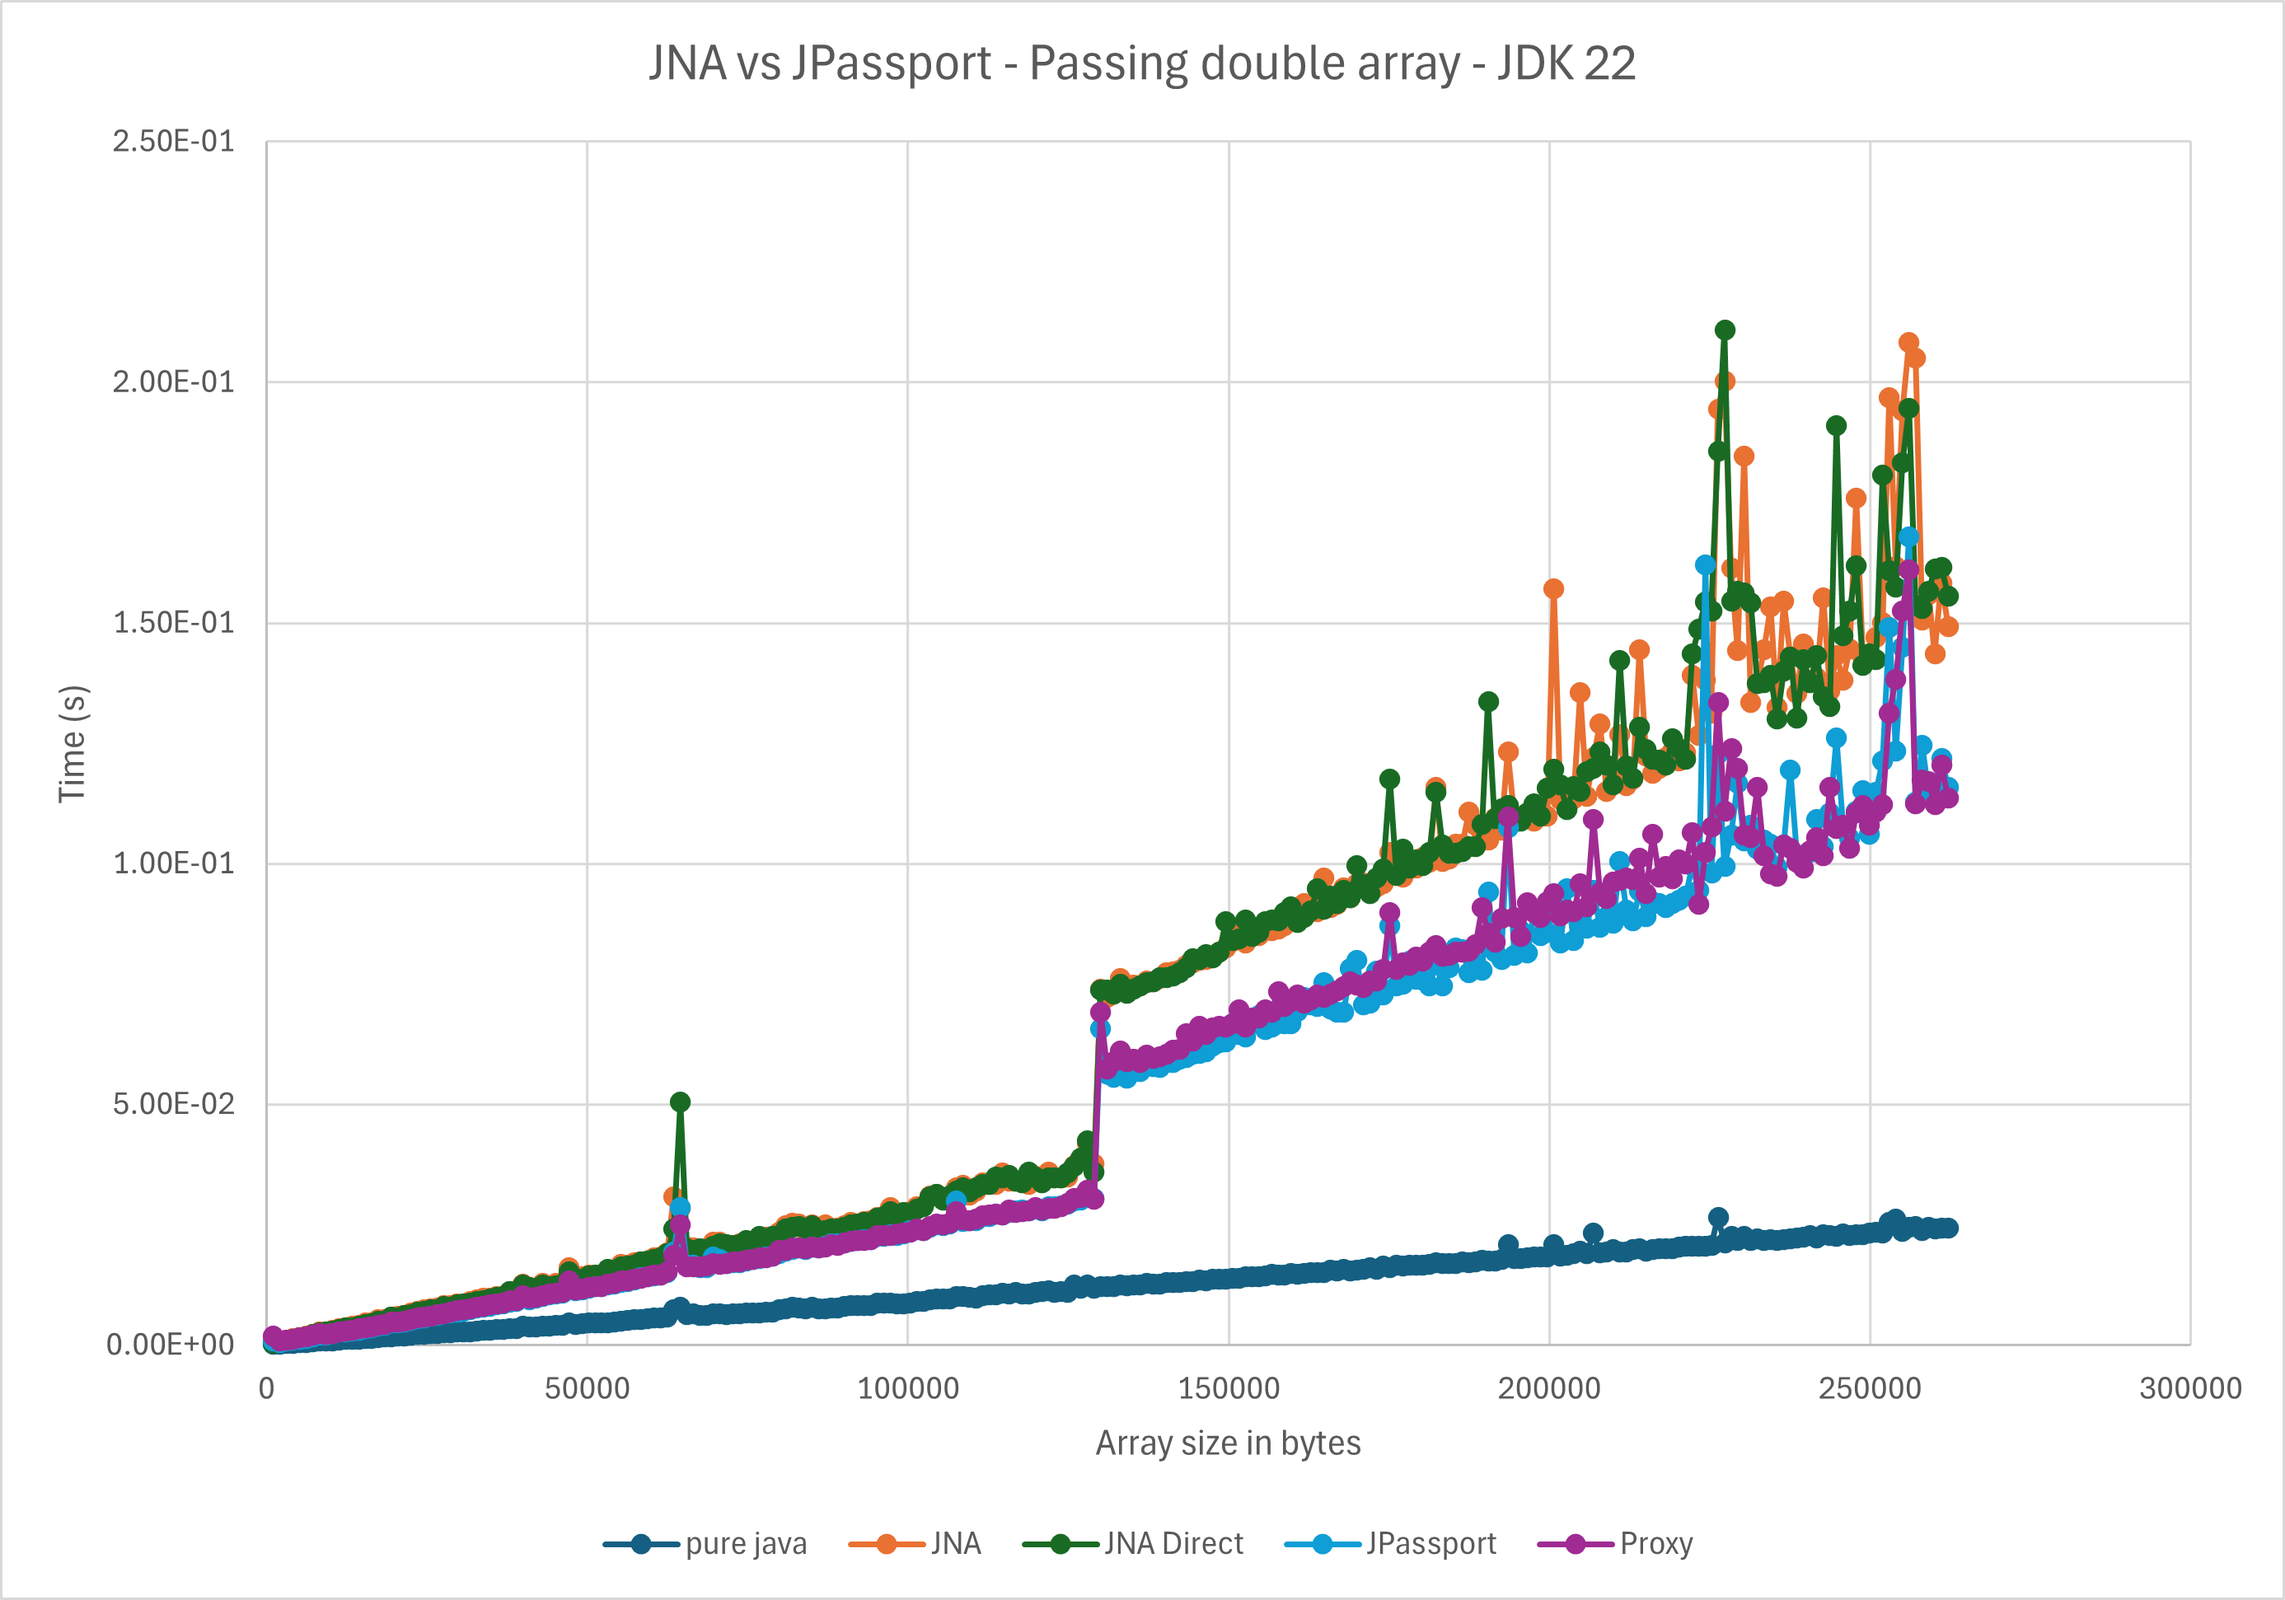
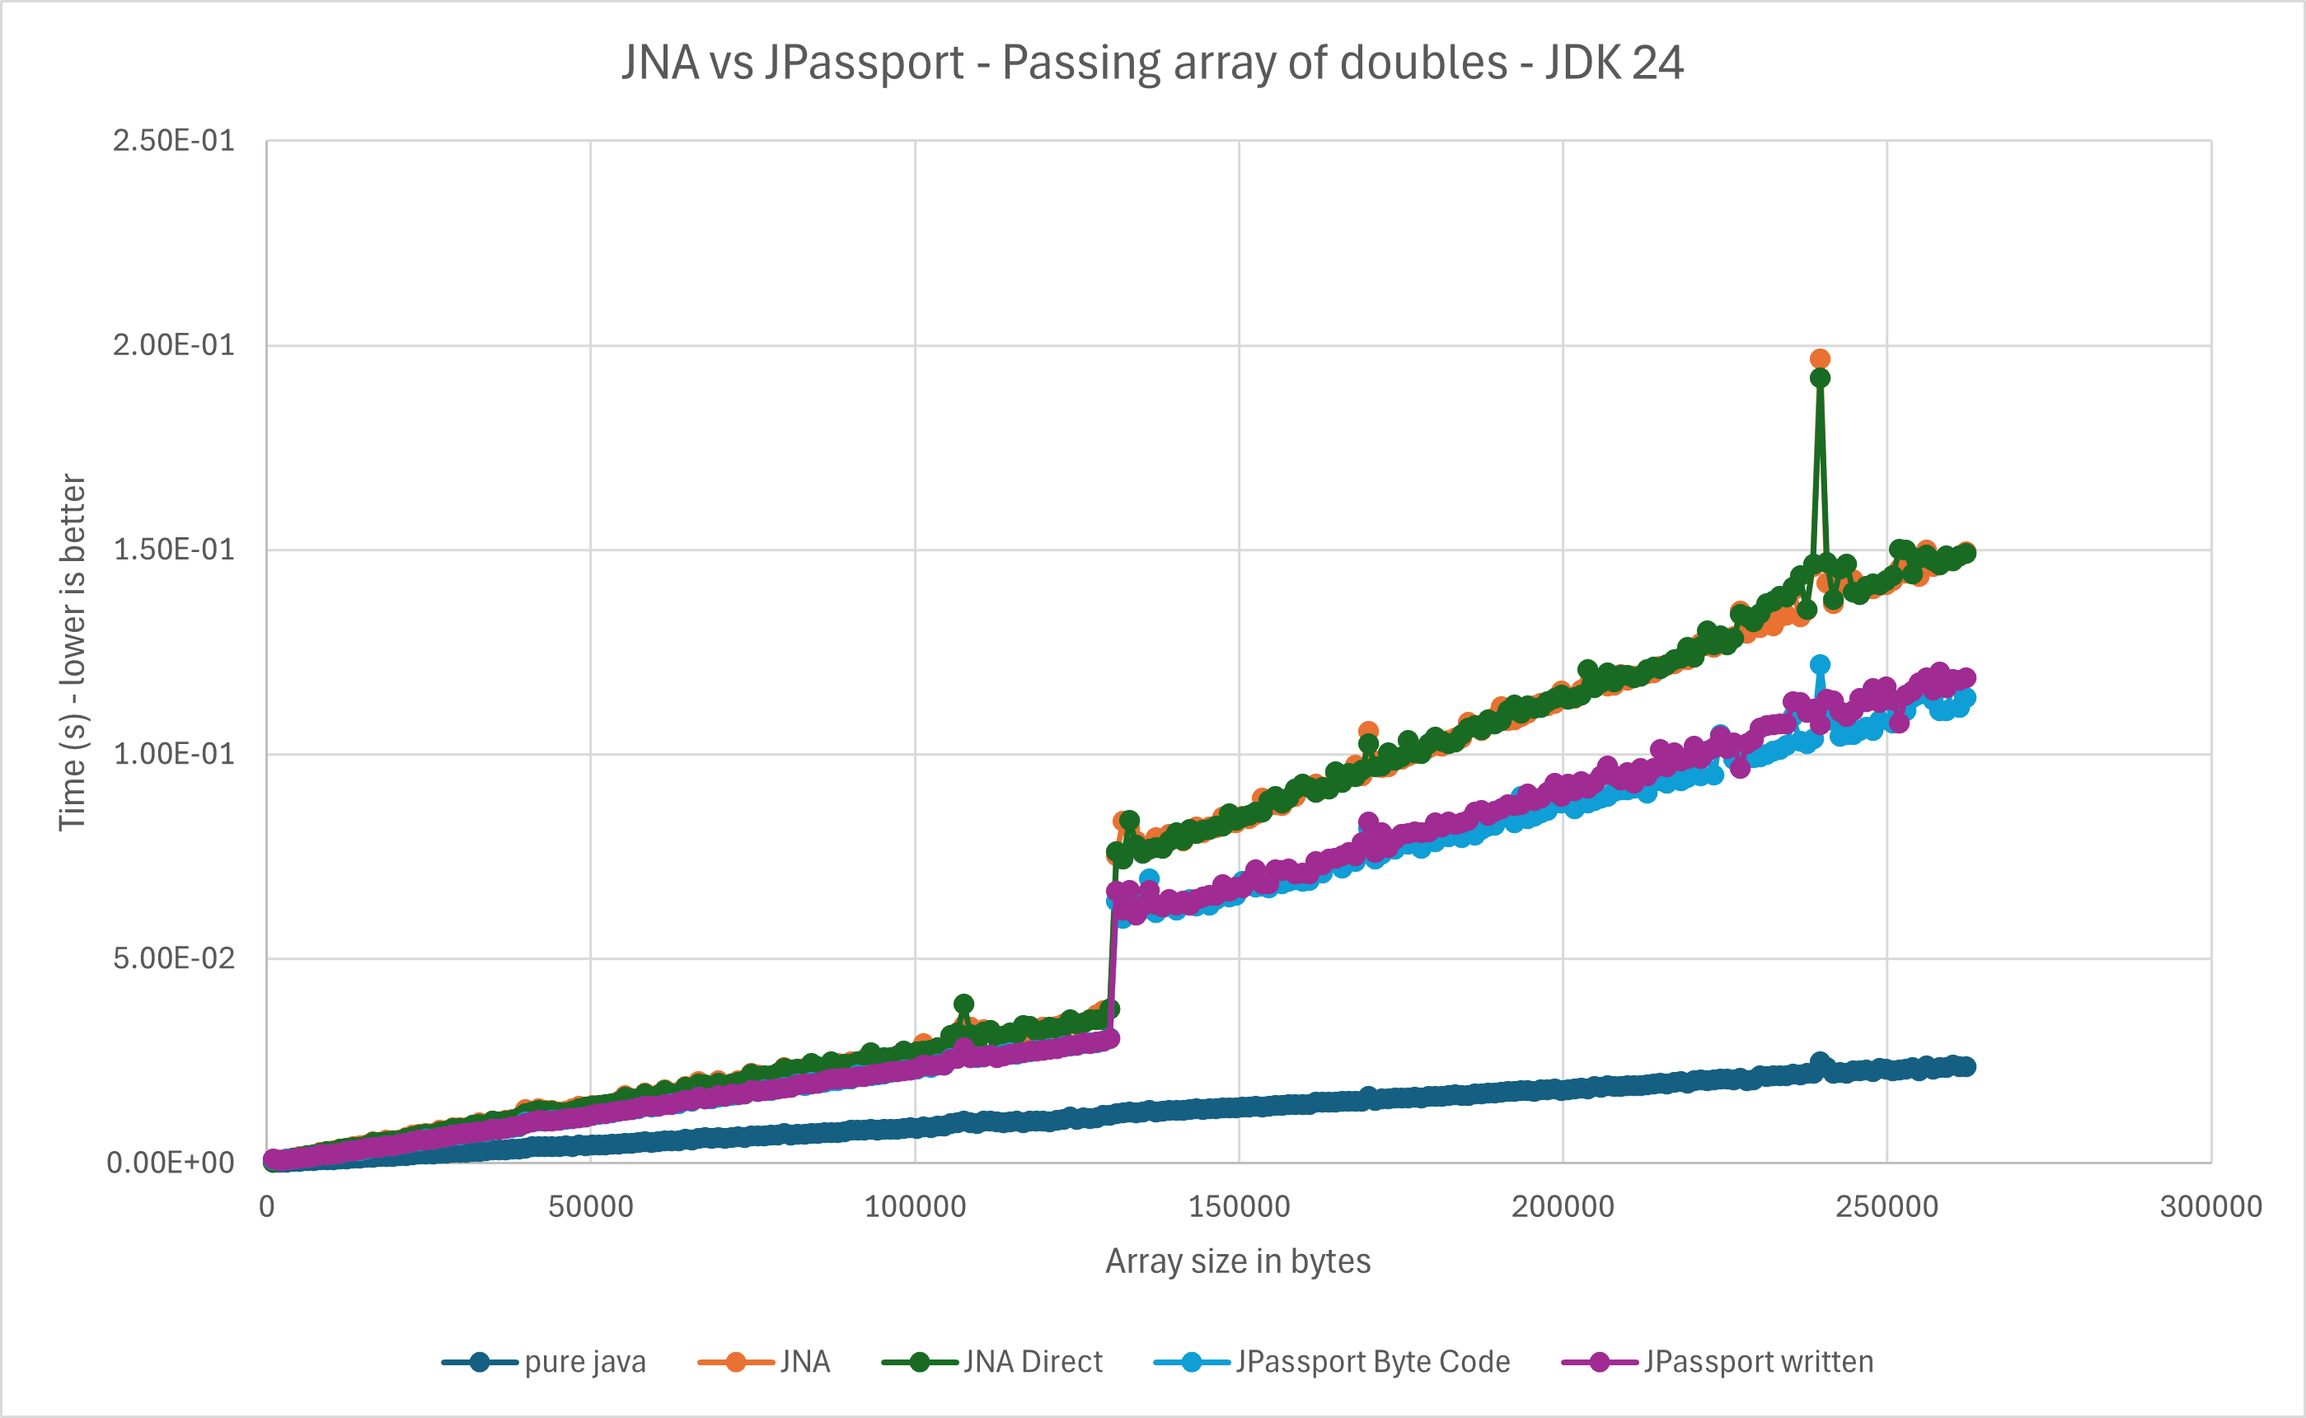
Publishing 1.2.0-24

diff --git a/README.md b/README.md
@@ -33,7 +33,7 @@ Download the source and run the maven build, or use the maven dependency:
         <dependency>
             <groupId>io.github.boulder-on</groupId>
             <artifactId>JPassport</artifactId>
-            <version>1.1.0-24</version>
+            <version>1.2.0-24</version>
         </dependency>
 
 If you would like to see the Java code or byte code created use:
@@ -426,7 +426,7 @@ JPassport itself only requires **Java 24 or later** to build and run. There are 
 
 
 # Release Notes
-- 1.2.0-24 (not released yet)
+- 1.2.0-24
   - Moved all record/struct reading and writing to the Classfile API instead of reflection (for speed)
   - Added MemoryBlock as a valid struct member
   - Code reorganization to hide classes that are not part of the API that a programmer needs to care about.
